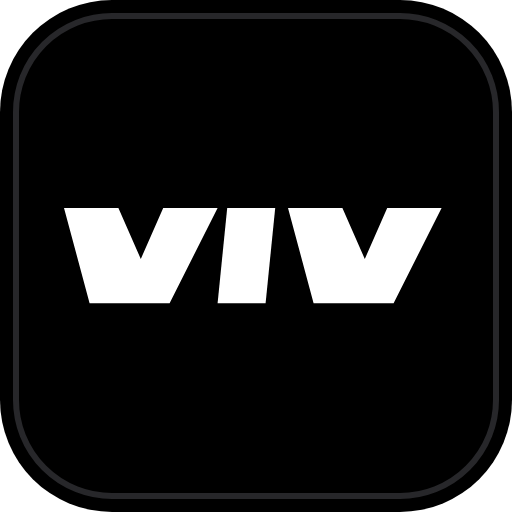
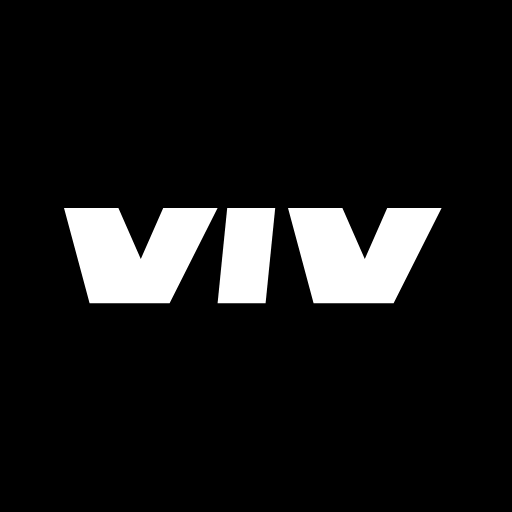
Удаление рамок, обводок и скруглений у логотипа VIV везде

Changed region(s): [[0.0, 0.0, 1.0, 1.0]]

diff --git a/js/screens/stats.js b/js/screens/stats.js
@@ -30,7 +30,7 @@
       <div class="sub-tabs">
         <button class="sub-tab-btn ${window.state.stats.activeSubTab === 'progress' ? 'active' : ''}" onclick="switchStatsSubTab('progress')">Прогресс</button>
         <button class="sub-tab-btn ${window.state.stats.activeSubTab === 'calendar' ? 'active' : ''}" onclick="switchStatsSubTab('calendar')">Календарь</button>
-        <button class="sub-tab-btn ${window.state.stats.activeSubTab === 'report' ? 'active' : ''}" onclick="switchStatsSubTab('report')" title="VIV" style="display:inline-flex; align-items:center; justify-content:center; gap:5px;"><img src="icon.svg" style="width:16px; height:16px; border-radius:4px; vertical-align:middle;" alt="VIV"><span>VIV</span></button>
+        <button class="sub-tab-btn ${window.state.stats.activeSubTab === 'report' ? 'active' : ''}" onclick="switchStatsSubTab('report')" title="VIV" style="display:inline-flex; align-items:center; justify-content:center; gap:5px;"><img src="icon.svg" style="width:16px; height:16px; border:none; vertical-align:middle;" alt="VIV"><span>VIV</span></button>
       </div>
       <div id="stats-tab-content"></div>`;
 
@@ -283,25 +283,54 @@
     const cardY = padOuter;
     roundRect(cardX, cardY, cardW, cardH, 22, '#000000', true, 'rgba(255, 255, 255, 0.1)', 1);
 
-    // 3. Шапка: VIV badge + дата
-    const iconSize = 38;
-    const iconX = cardX + (cardW - iconSize) / 2;
-    const iconY = cardY + cardTopPad;
+    // 3. Шапка: спортивный логотип VIV без рамок + дата
+    const logoCenterX = cardX + cardW / 2;
+    const logoCenterY = cardY + cardTopPad + 12;
+    const sLogo = 68 / 377.6; // Масштаб логотипа VIV без рамок
 
-    // Отрисовка фирменного бейджа VIV с мягким свечением
     ctx.save();
-    ctx.shadowColor = 'rgba(255, 255, 255, 0.25)';
-    ctx.shadowBlur = 8;
-    roundRect(iconX, iconY, iconSize, iconSize, 9, '#000000', true, '#27272a', 1);
+    ctx.translate(logoCenterX, logoCenterY);
+    ctx.scale(sLogo, sLogo);
+    ctx.translate(-252.8, -255.6);
+    ctx.fillStyle = '#ffffff';
+
+    // Буква V (левая)
+    ctx.beginPath();
+    ctx.moveTo(64.0, 208.0);
+    ctx.lineTo(118.4, 208.0);
+    ctx.lineTo(140.8, 259.0);
+    ctx.lineTo(163.2, 208.0);
+    ctx.lineTo(217.6, 208.0);
+    ctx.lineTo(169.6, 303.2);
+    ctx.lineTo(89.6, 303.2);
+    ctx.closePath();
+    ctx.fill();
+
+    // Буква I
+    ctx.beginPath();
+    ctx.moveTo(227.2, 208.0);
+    ctx.lineTo(275.2, 208.0);
+    ctx.lineTo(265.6, 303.2);
+    ctx.lineTo(217.6, 303.2);
+    ctx.closePath();
+    ctx.fill();
+
+    // Буква V (правая)
+    ctx.beginPath();
+    ctx.moveTo(288.0, 208.0);
+    ctx.lineTo(342.4, 208.0);
+    ctx.lineTo(364.8, 259.0);
+    ctx.lineTo(387.2, 208.0);
+    ctx.lineTo(441.6, 208.0);
+    ctx.lineTo(393.6, 303.2);
+    ctx.lineTo(313.6, 303.2);
+    ctx.closePath();
+    ctx.fill();
+
     ctx.restore();
 
-    ctx.textAlign = 'center';
-    ctx.font = '900 13px -apple-system, BlinkMacSystemFont, "SF Pro Display", sans-serif';
-    ctx.fillStyle = '#ffffff';
-    ctx.fillText('VIV', iconX + iconSize / 2, iconY + 24);
-
     const dateStr = new Date().toLocaleDateString('ru-RU', { day: 'numeric', month: 'long', year: 'numeric' });
-    const dateY = iconY + iconSize + 14;
+    const dateY = logoCenterY + 24;
     ctx.font = '500 12px -apple-system, BlinkMacSystemFont, "SF Pro Text", sans-serif';
     ctx.fillStyle = 'rgba(255, 255, 255, 0.5)';
     ctx.textAlign = 'center';

diff --git a/style.css b/style.css
@@ -2552,7 +2552,10 @@ canvas {
   vertical-align: middle;
   height: 38px;
   width: auto;
-  border-radius: 8px;
+  border-radius: 0;
+  border: none !important;
+  outline: none !important;
+  box-shadow: none !important;
 }
 
 .app-logo-brand {
@@ -2562,10 +2565,12 @@ canvas {
 }
 
 .apple-report-logo-interactive .app-logo-badge {
-  width: 64px;
-  height: 64px;
-  border-radius: 16px;
-  box-shadow: 0 4px 20px rgba(0, 0, 0, 0.45);
+  width: auto;
+  height: 38px;
+  border-radius: 0;
+  border: none !important;
+  outline: none !important;
+  box-shadow: none !important;
 }
 
 .apple-athlete-pill {

diff --git a/js/app.js b/js/app.js
@@ -30,7 +30,7 @@
       const cls = options.className || '';
       const style = options.style || '';
       const height = options.small ? '16px' : (options.height || '26px');
-      return `<img src="${this.iconSrc}" alt="VIV" class="app-logo-badge ${cls}" style="display:inline-block; vertical-align:middle; height:${height}; border-radius:6px; ${style}">`;
+      return `<img src="${this.iconSrc}" alt="VIV" class="app-logo-badge ${cls}" style="display:inline-block; vertical-align:middle; height:${height}; border:none; outline:none; ${style}">`;
     },
     getText() {
       return 'VIV';

diff --git a/index.html b/index.html
@@ -81,7 +81,7 @@
       </button>
       <button class="nav-item" data-tab="shop" title="VIV">
         <div class="nav-icon" style="display:flex; align-items:center; justify-content:center;">
-          <img src="icon.svg" alt="VIV" style="width:24px; height:24px; border-radius:6px; object-fit:contain;">
+          <img src="icon.svg" alt="VIV" style="width:24px; height:24px; border:none; object-fit:contain;">
         </div>
         <span>VIV</span>
       </button>

diff --git a/sw.js b/sw.js
@@ -6,7 +6,7 @@
 // =============================================================================
 
 // БЛОК 1. Идентификатор версии кэша и реестр критических ресурсов
-const CACHE_NAME = 'viv-core-v1.1.0';
+const CACHE_NAME = 'viv-core-v1.1.1';
 
 const CORE_ASSETS = [
   './',
